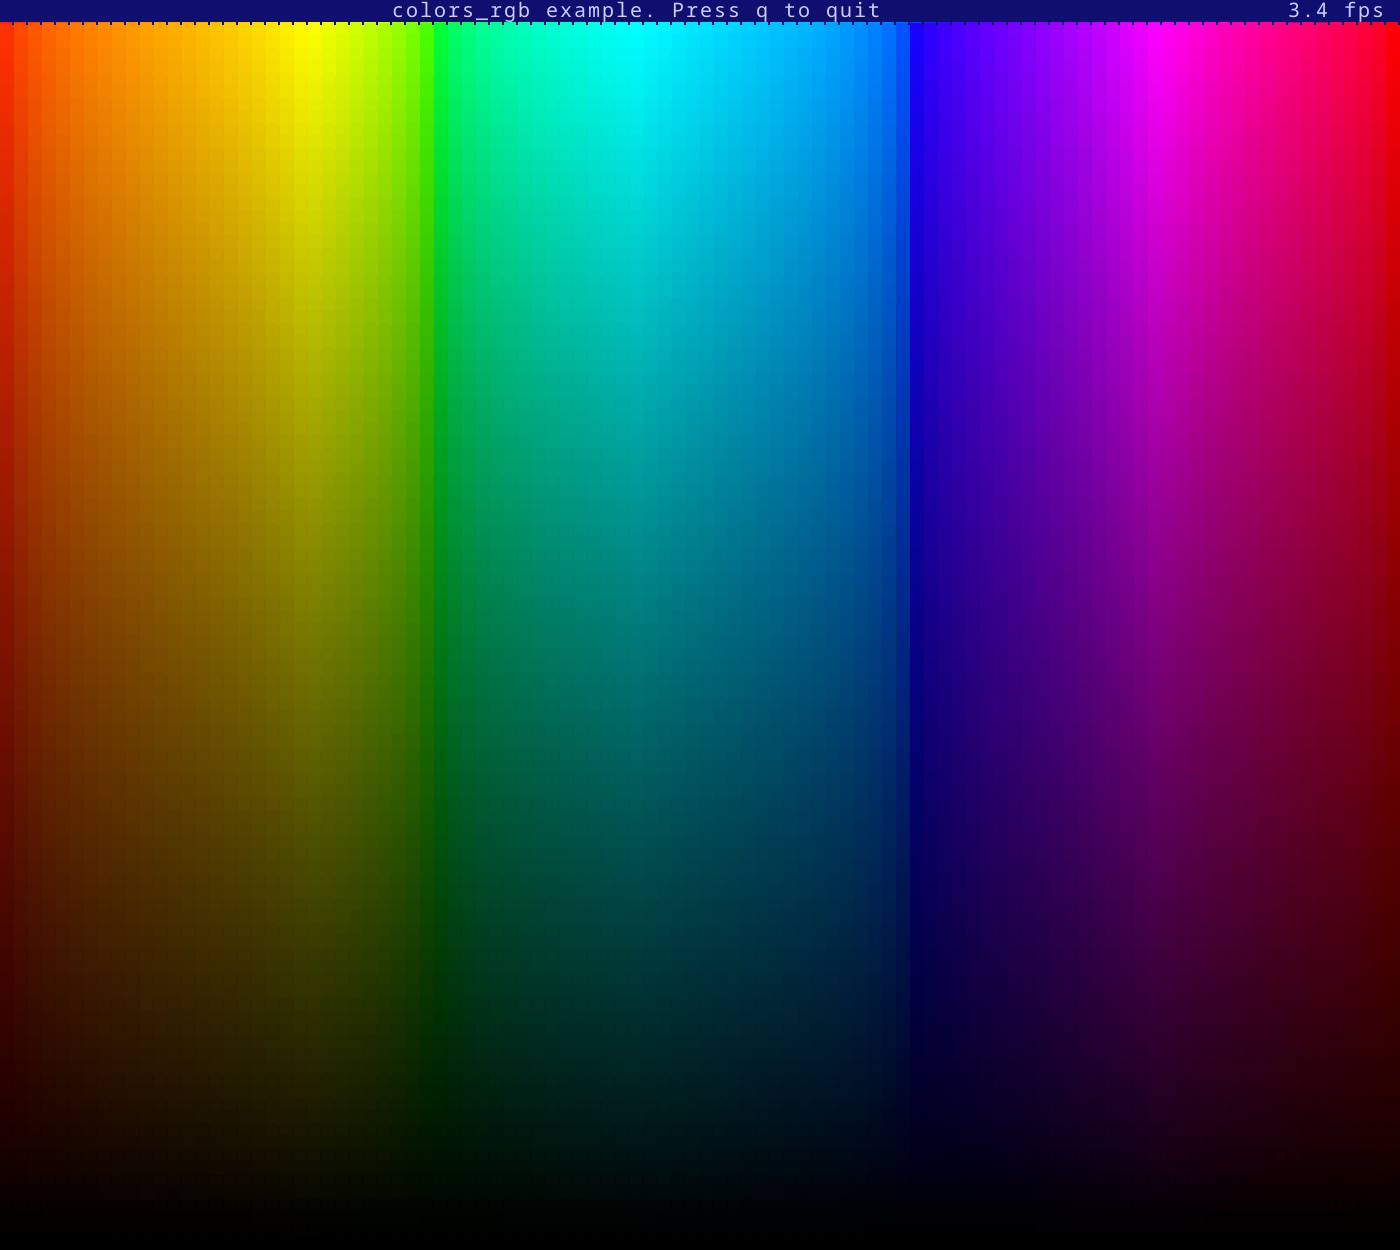
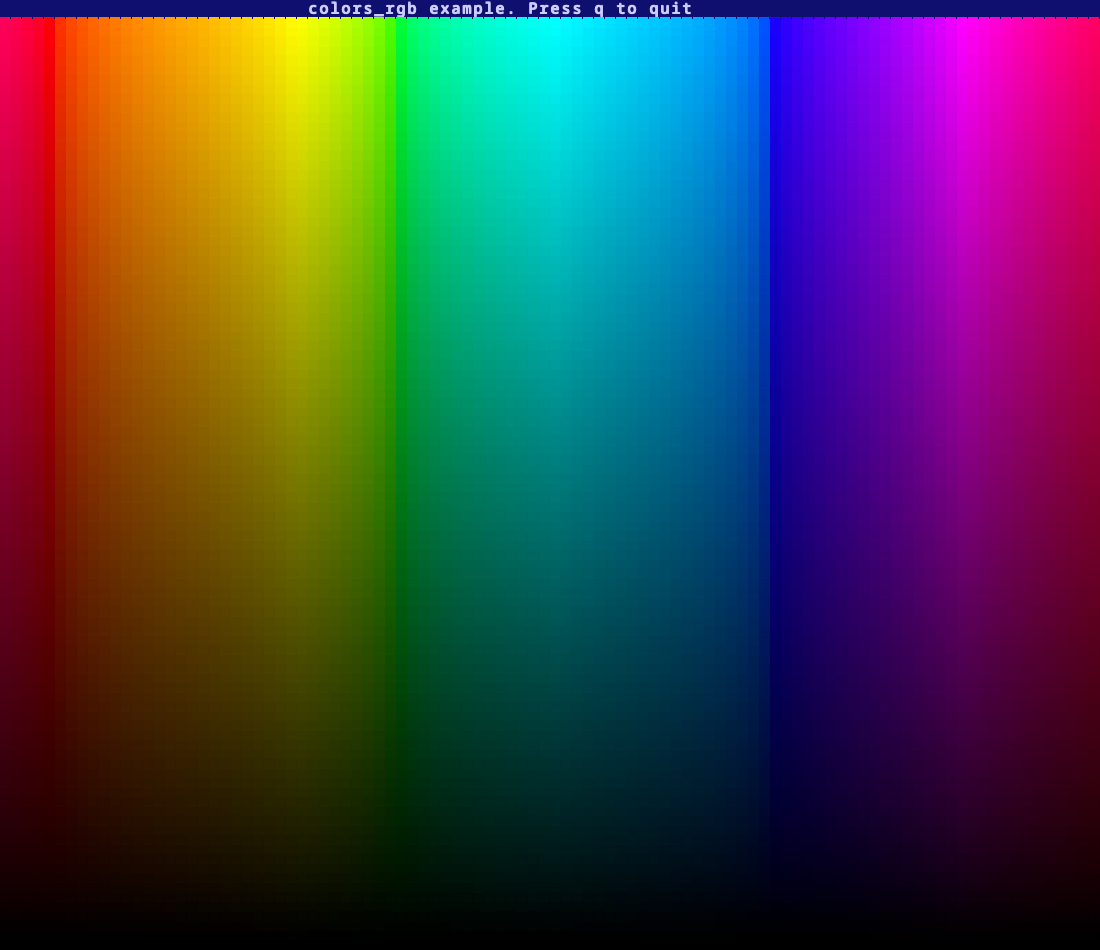
a

diff --git a/src/soft_backend.rs b/src/soft_backend.rs
@@ -131,8 +131,8 @@ impl SoftBackend {
                 SkiaRect::from_xywh(
                     xik as f32 * self.char_width as f32 + x as f32,
                     yik as f32 * self.char_height as f32 + y as f32,
-                    1.0,
-                    1.0,
+                    2.0,
+                    2.0,
                 )
                 .unwrap(),
                 &self.skia_paint,
@@ -157,7 +157,7 @@ impl SoftBackend {
         let mut skia_paint = Paint::default();
         skia_paint.anti_alias = false;
         // skia_paint.blend_mode = BlendMode::Difference;
-        let line_height = 20;
+        let line_height = 15;
         let mut font_system = FontSystem::new();
         let metrics = Metrics::new(line_height as f32, line_height as f32);
         let mut buffer = CosmicBuffer::new(&mut font_system, metrics);
